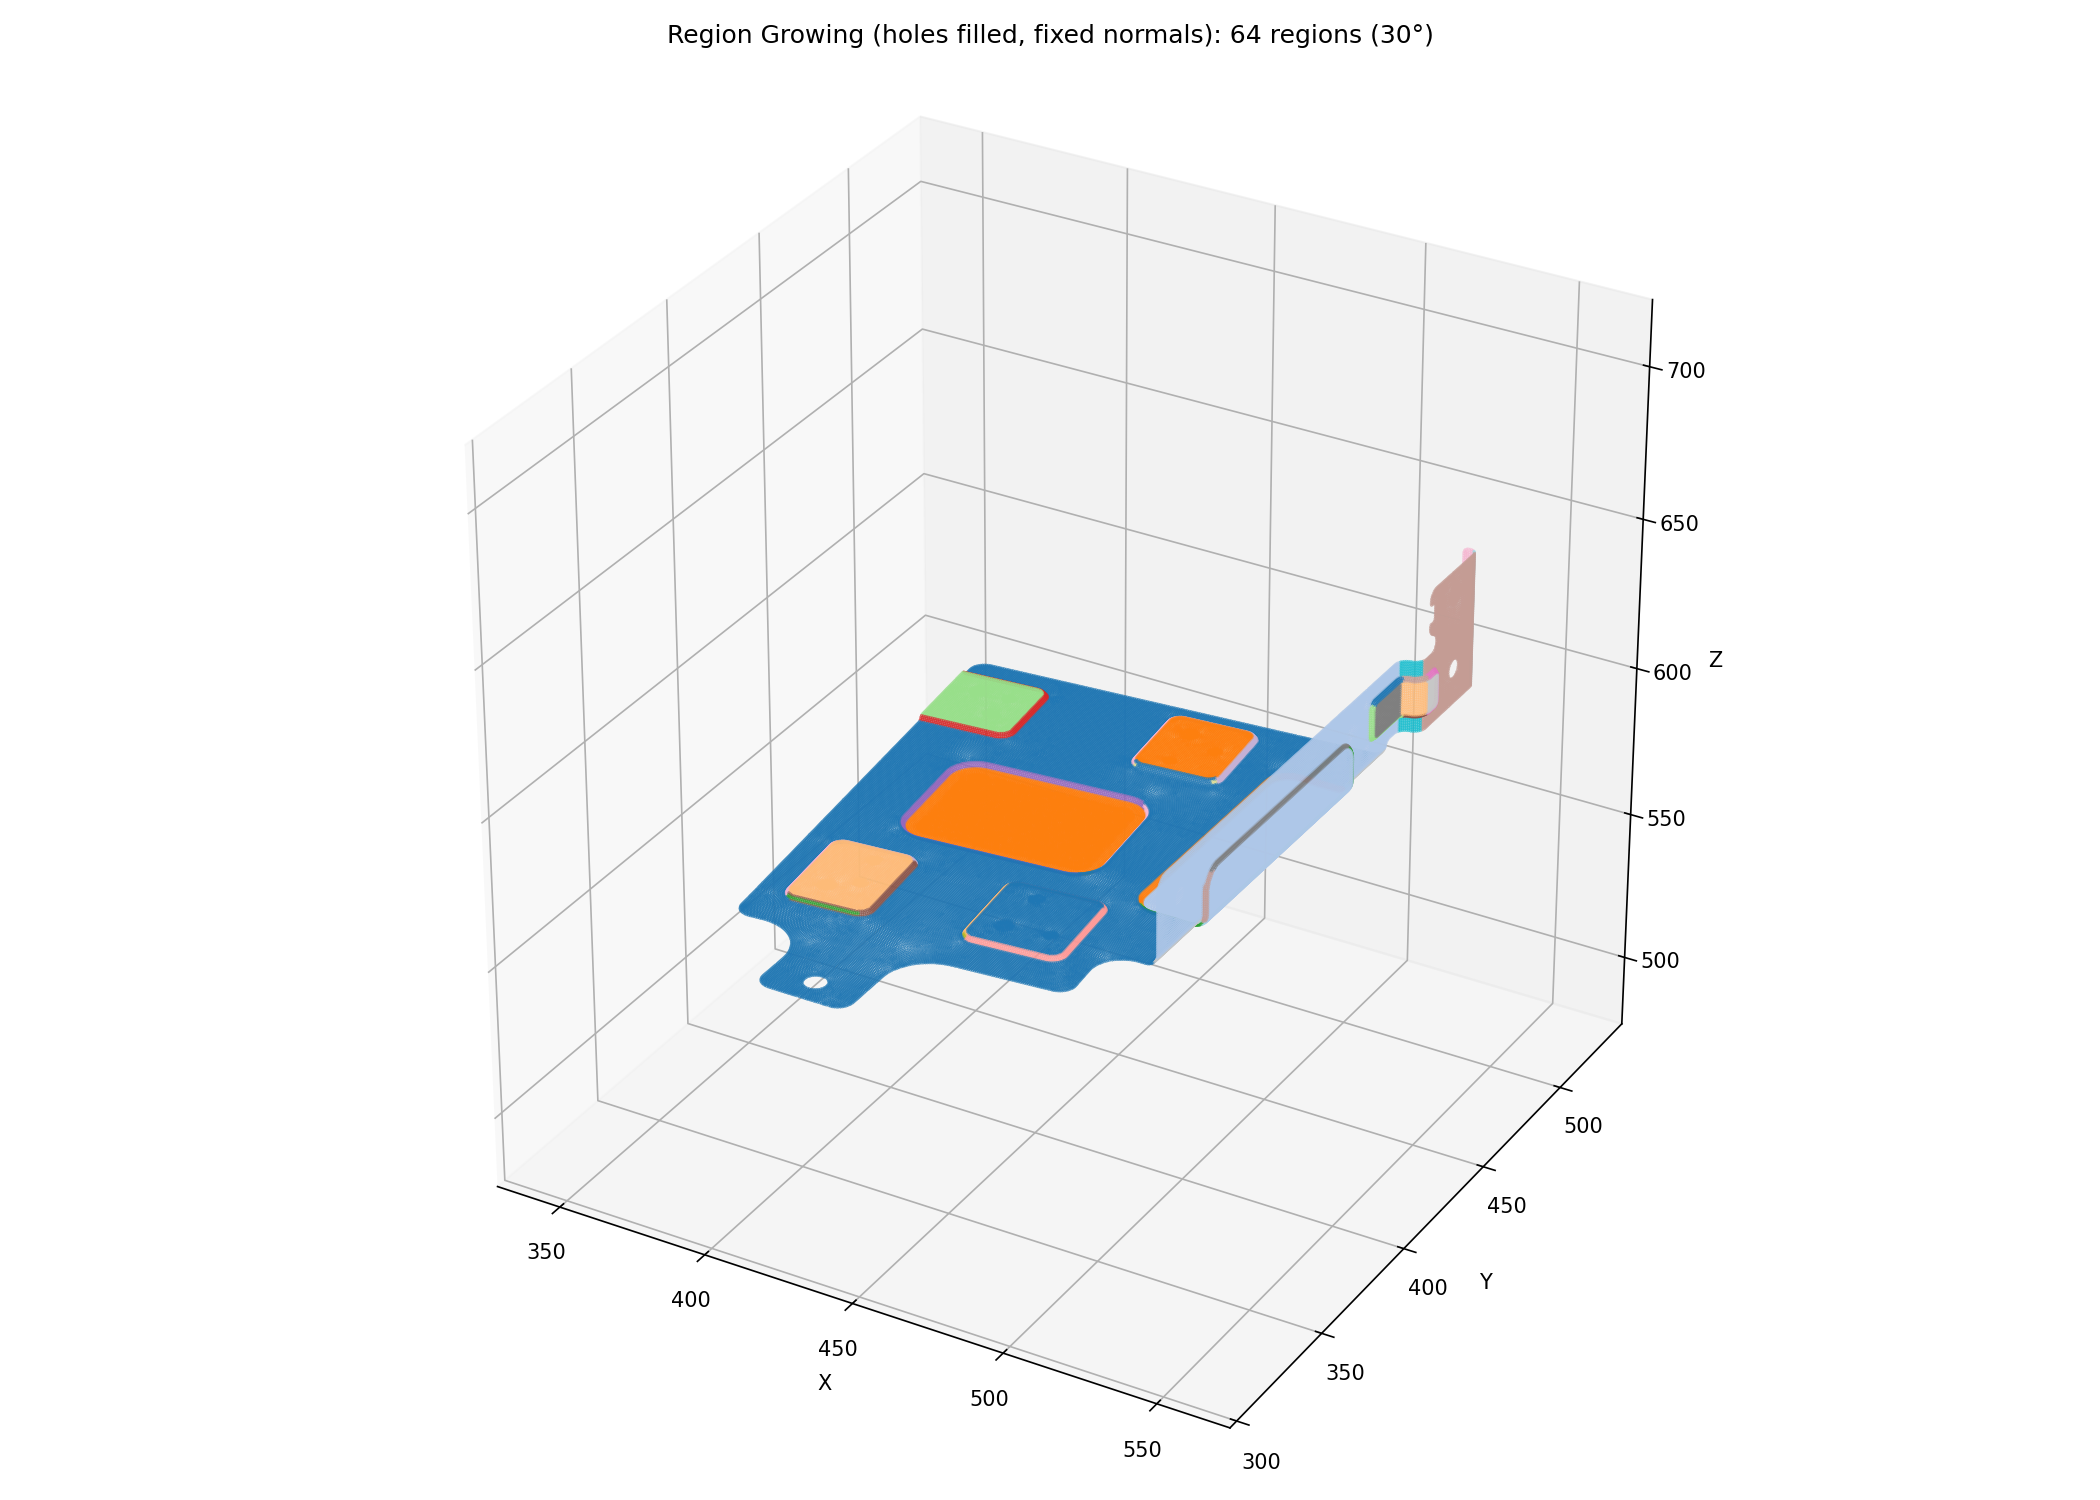
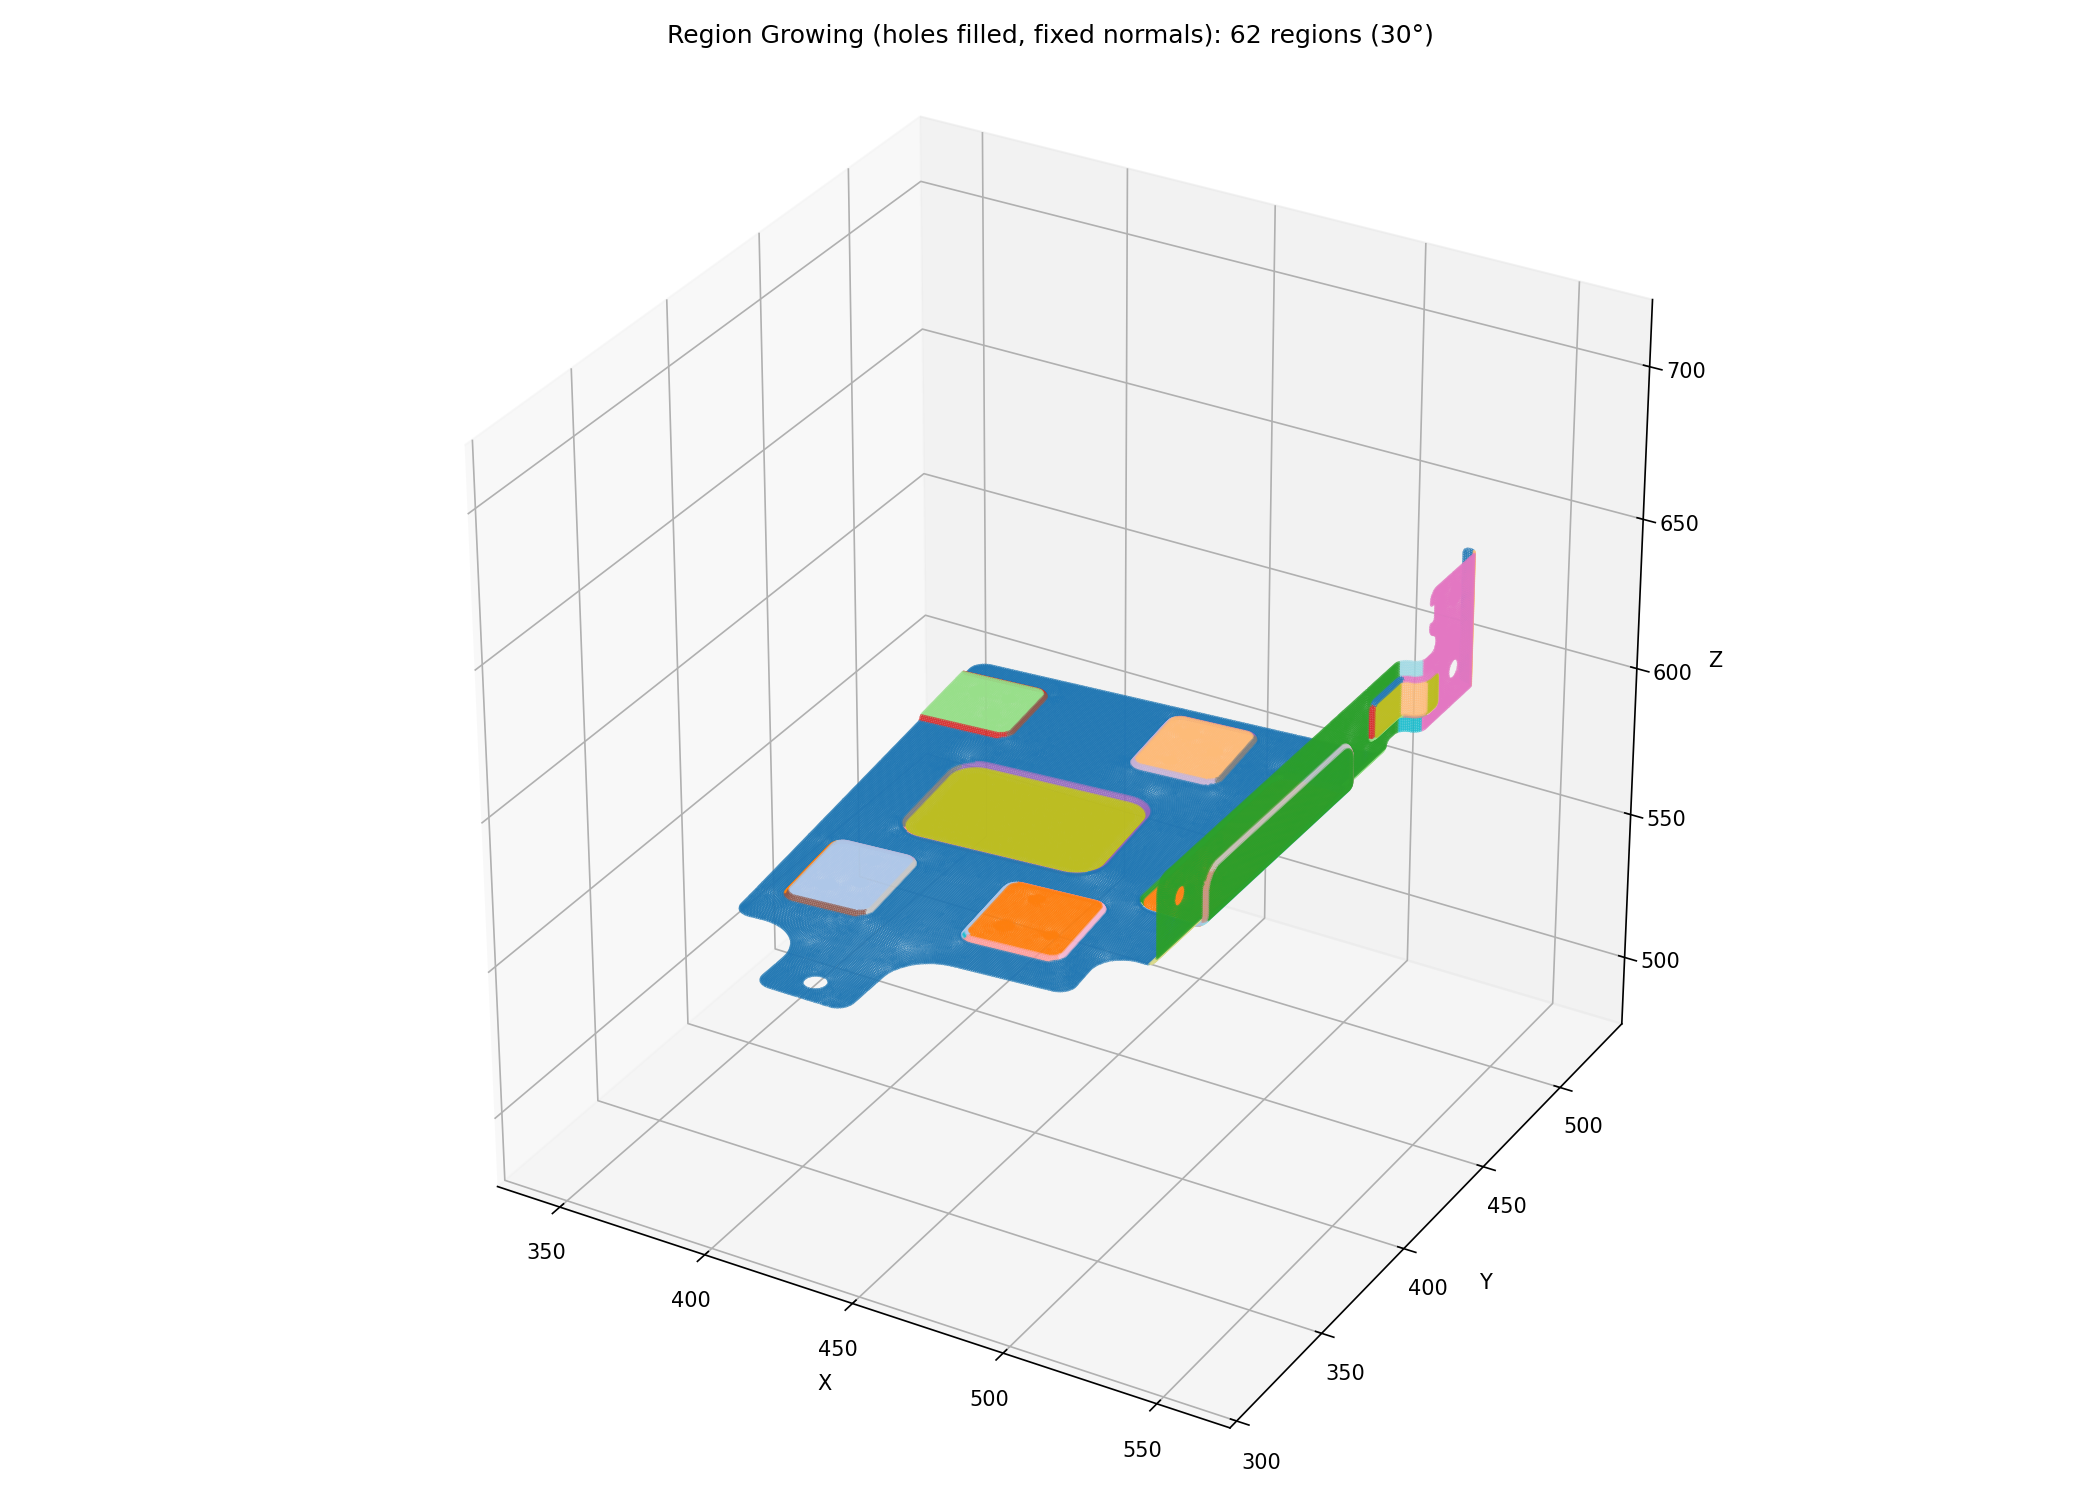
to_2d dihedral curvature cylinder detect - 2026-04-22 06:49 KST

Changed region(s): [[0.3714, 0.368, 0.7119, 0.644]]

diff --git a/README.md b/README.md
@@ -4,7 +4,7 @@ This repo is used to share result images from Claude Code.
 
 **Timezone: KST (UTC+9)** — Server time is 9 hours behind KST.
 
-## MOBIS_GEN to_2d.ipynb — sol103_01 + remesh + equal aspect (2026-04-22 02:02 KST)
+## MOBIS_GEN to_2d — dihedral curvature cylinder detect (2026-04-22 06:49 KST)
 
 ### 1. Point Cloud
 ![pointcloud](pointcloud.png)
@@ -18,11 +18,14 @@ This repo is used to share result images from Claude Code.
 ### 4. Flatten Result (Original / Flat / Bend)
 ![flatten_result](flatten_result.png)
 
-### 5. Cylinder Detected (BFS all-node classification)
+### 5. Dihedral Angle Heatmap
+![curvature_heatmap](curvature_heatmap.png)
+
+### 6. Cylinder Detected (dihedral, R=3.845, 89.9°)
 ![cylinder_detected](cylinder_detected.png)
 
-### 6. Unroll Before/After
+### 7. Unroll Before/After
 ![unroll_result](unroll_result.png)
 
-### 7. Unroll Translation Heatmap
+### 8. Unroll Translation Heatmap
 ![unroll_heatmap](unroll_heatmap.png)
